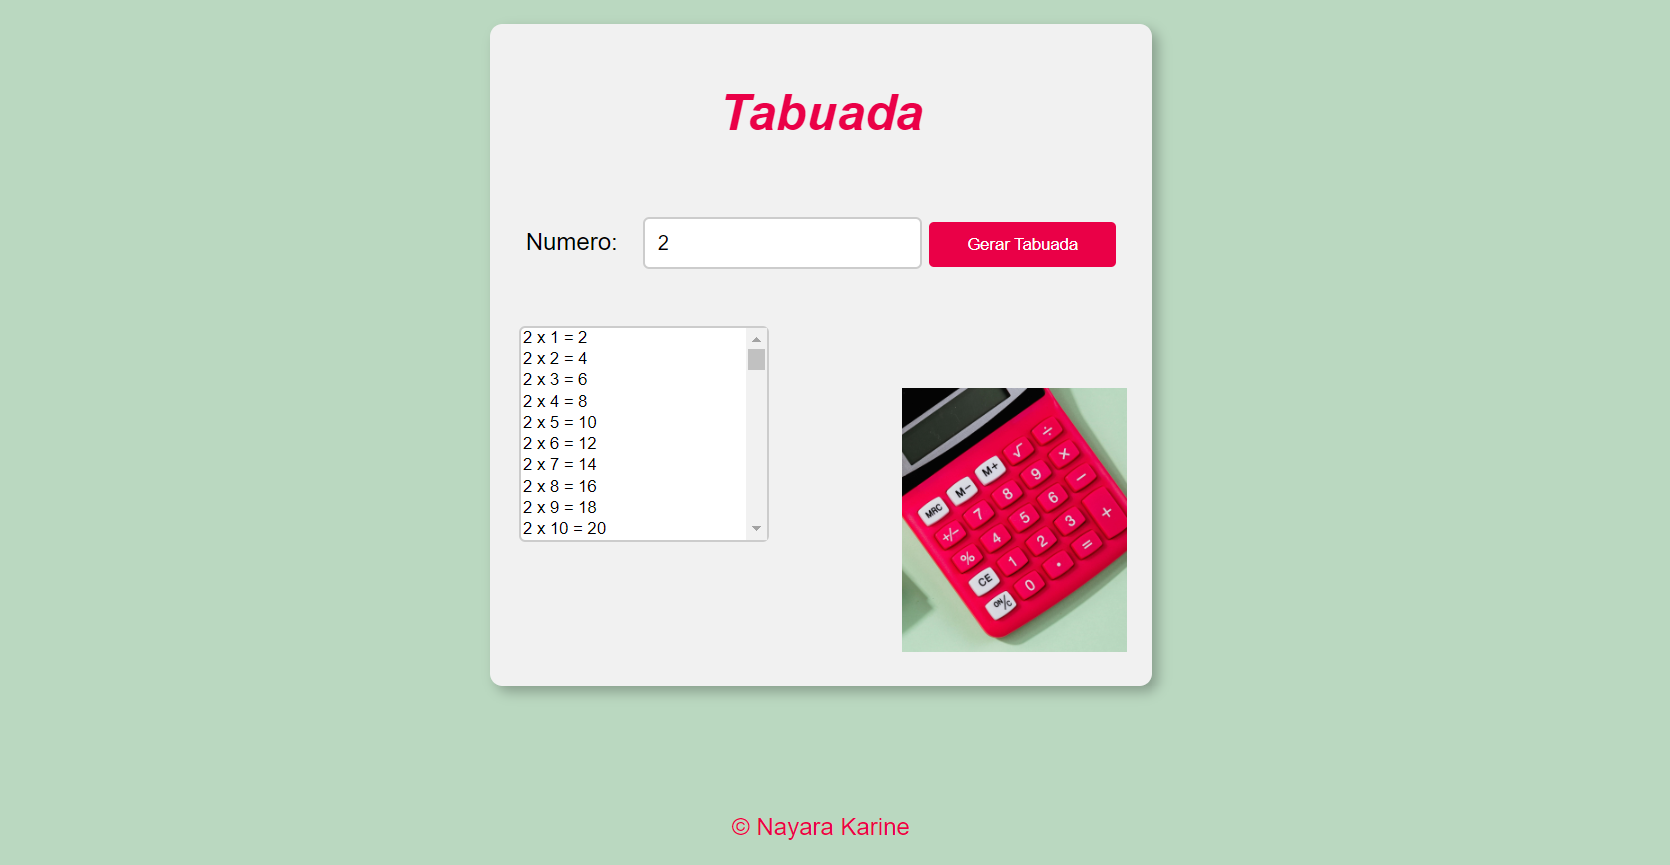
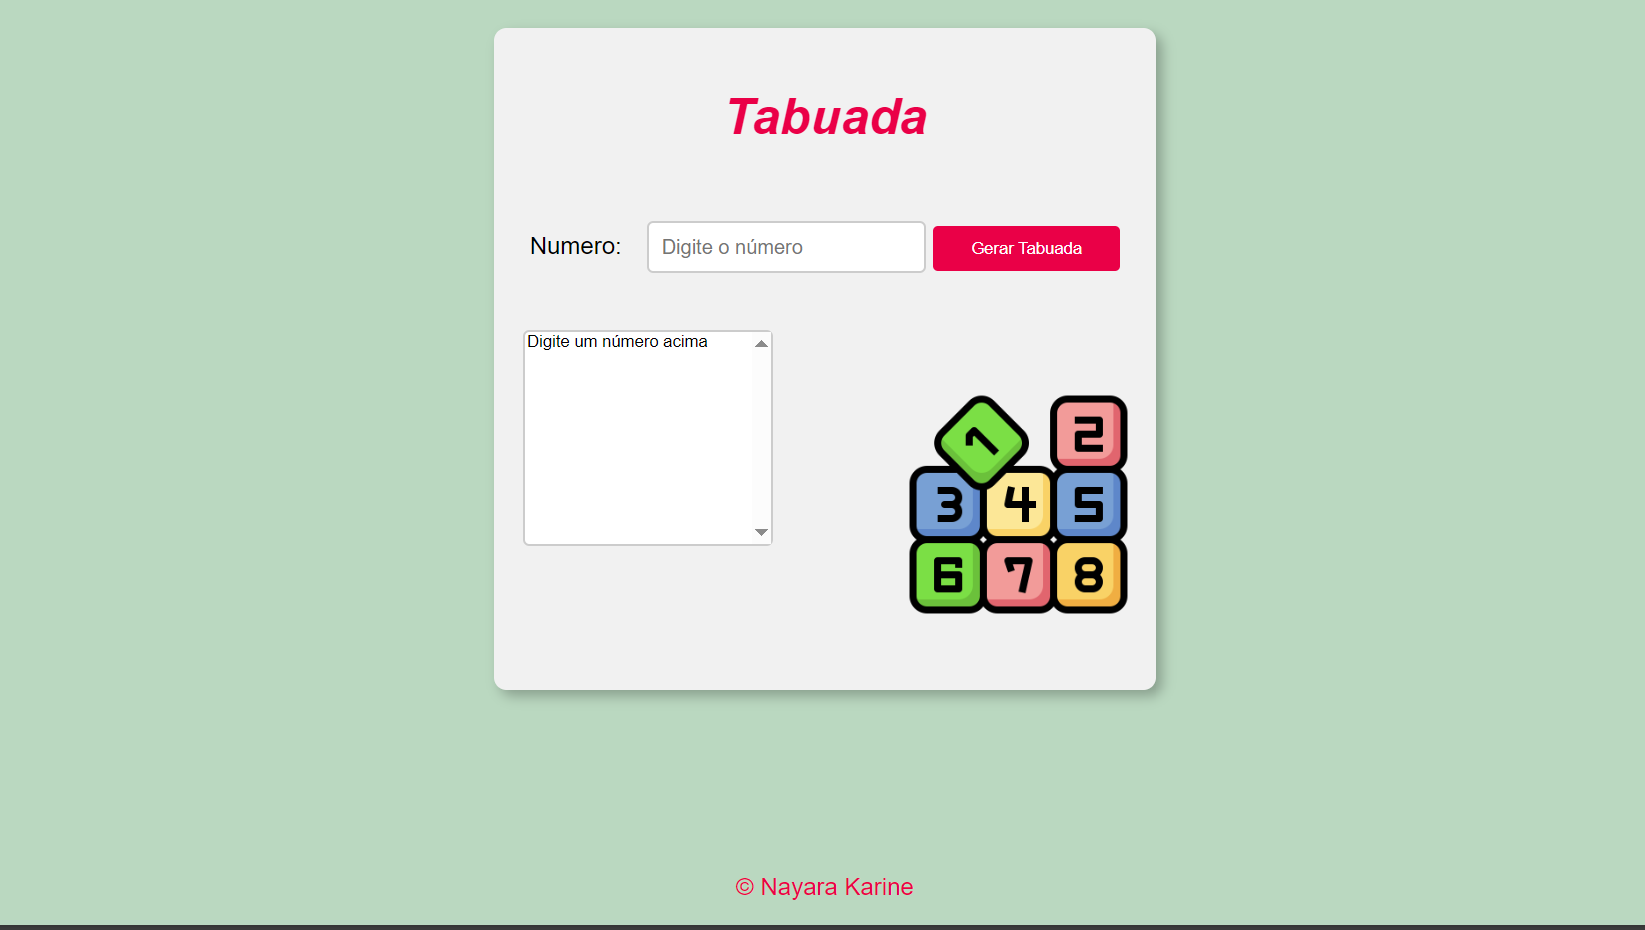
Atualização da Imagem

diff --git a/index.html b/index.html
@@ -29,7 +29,7 @@
         </div>
 
         <div class="img">
-            <img src="calculadora.jpg" alt="">
+            <img src="number-blocks.png" alt="">
         </div>
 
     </section>
